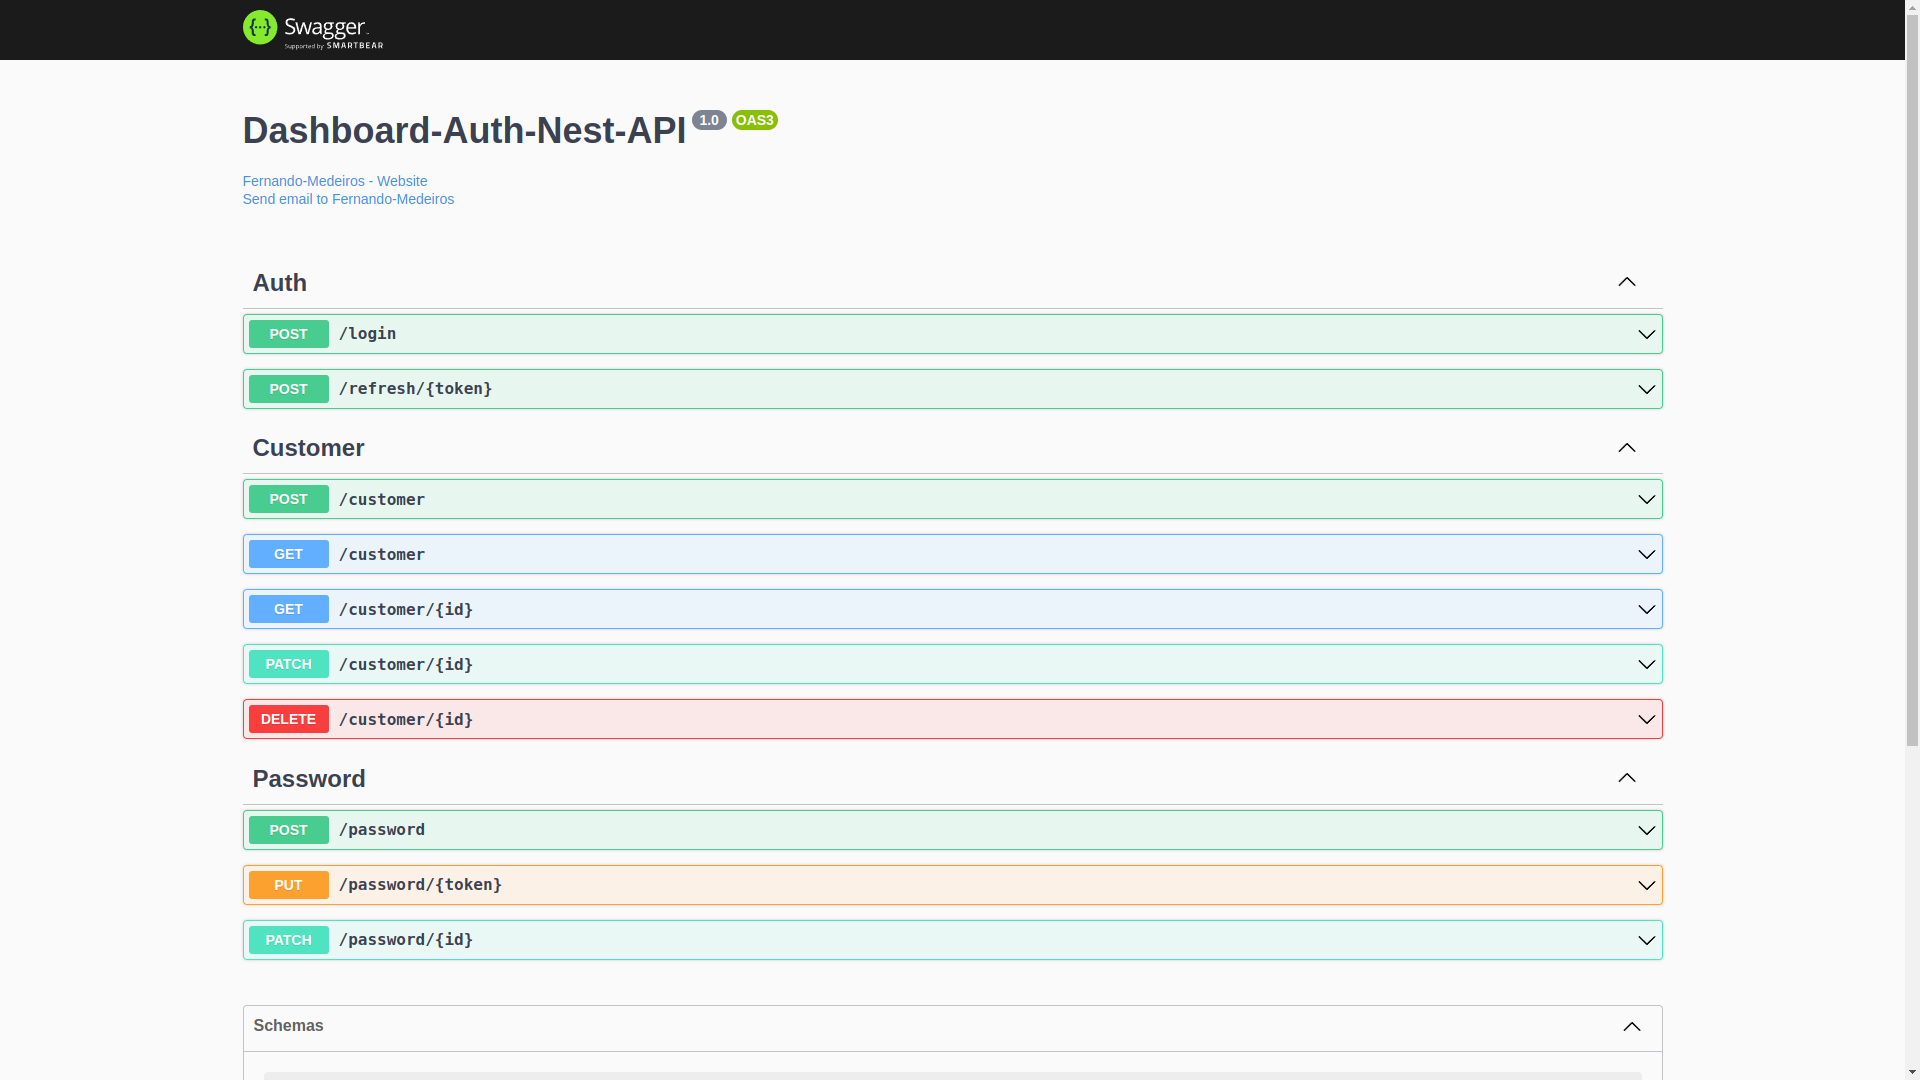
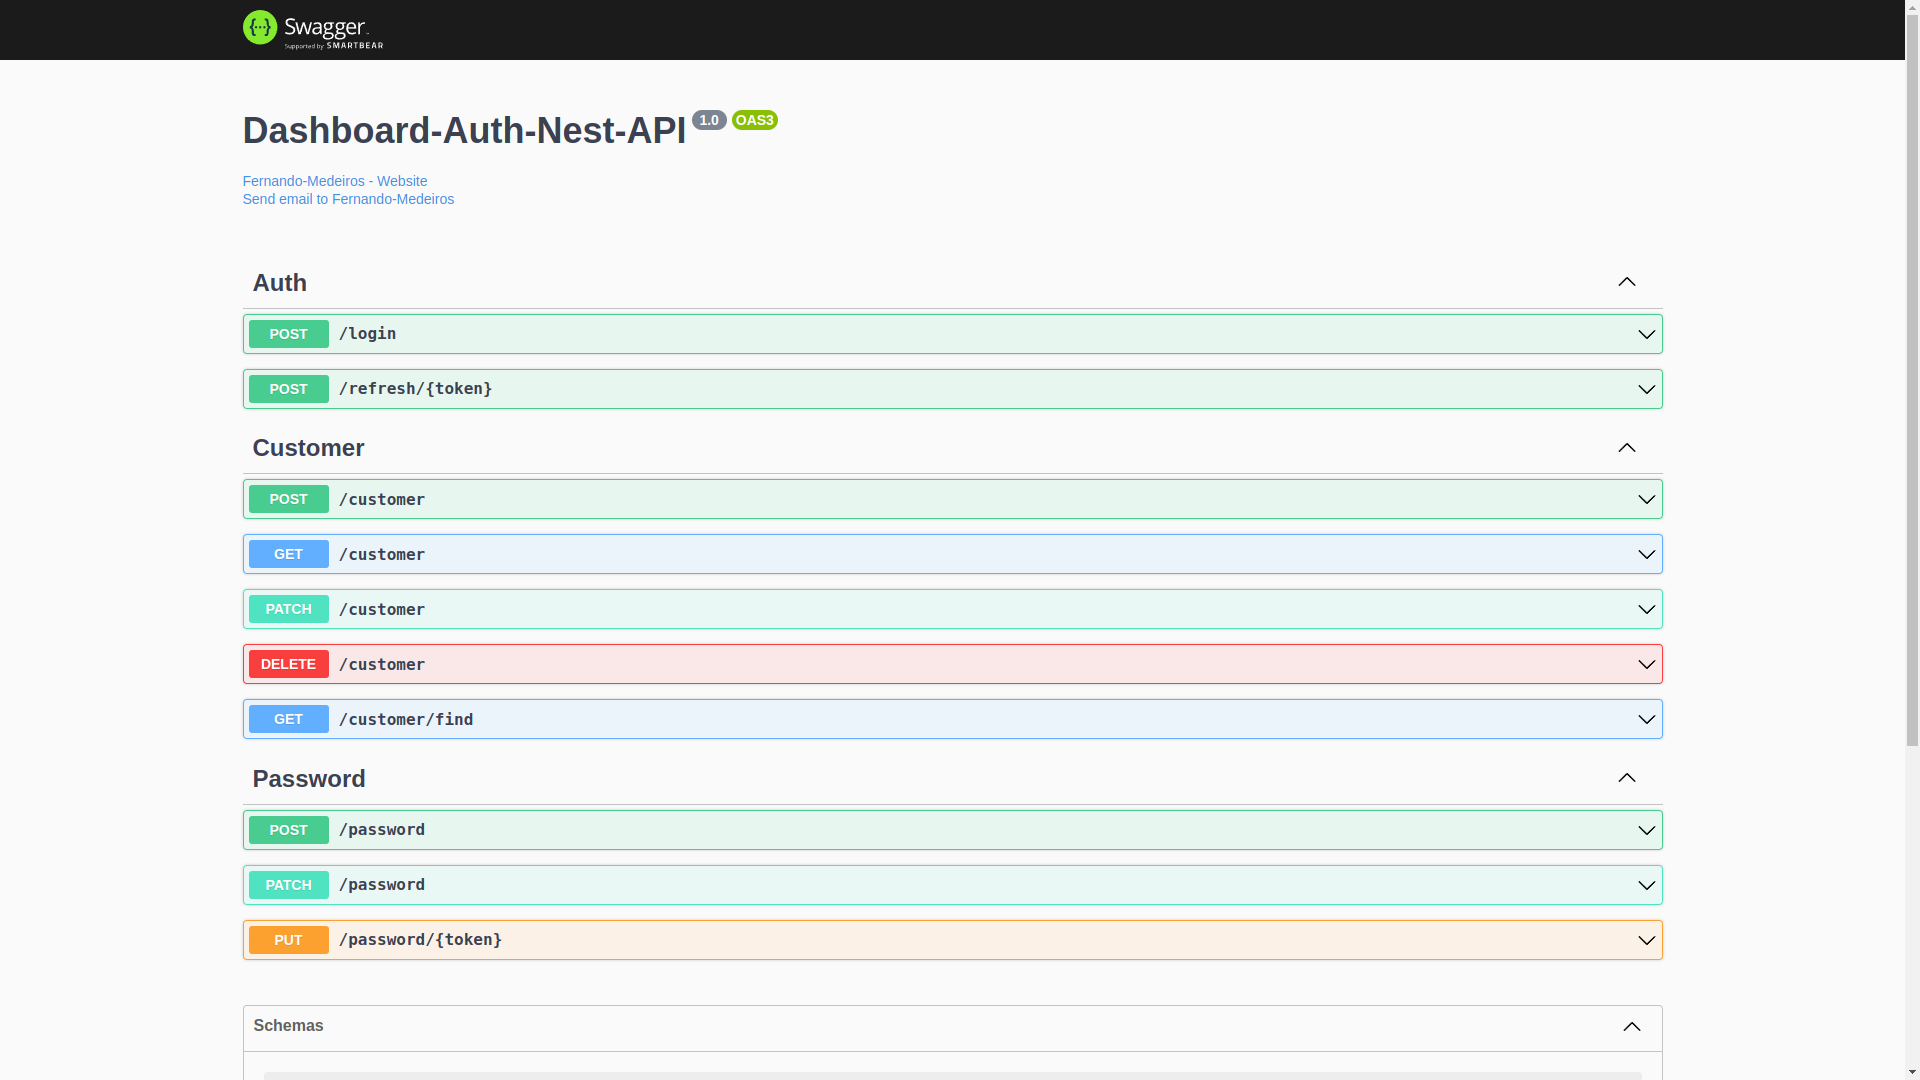
docs: update

diff --git a/docs/README.md b/docs/README.md
@@ -48,7 +48,7 @@
 > - email
 > - password
 
-#### _Find Many Customers_
+#### _Find Many Customers  -> **/customer/find**_
 
 > @SESSION | @GET
 >
@@ -58,23 +58,23 @@
 > - order = asc || desc
 > - sort = columns -> id | email | firstName | lastName | createdAt
 
-#### _Find Customer_
+#### _Get Own Customer_
 
-> @SESSION | @GET | @PARAM(**:id**)
+> @SESSION | @GET
+
+#### _Delete Customer_
+
+> @SESSION | @DELETE
 
 #### _Update Customer_
 
-> @SESSION | @PATCH | @PARAM(**:id**)
+> @SESSION | @PATCH
 >
 > @BODY:
 >
 > - firstName
 > - lastName
 > - email
-
-#### _Delete Customer_
-
-> @SESSION | @DELETE | @PARAM(**:id**)
 
 ### **/password**
 
@@ -96,7 +96,7 @@
 
 #### _Update Password_
 
-> @SESSION | @PATCH | @PARAM(**:id**)
+> @SESSION | @PATCH
 >
 > @BODY:
 >
